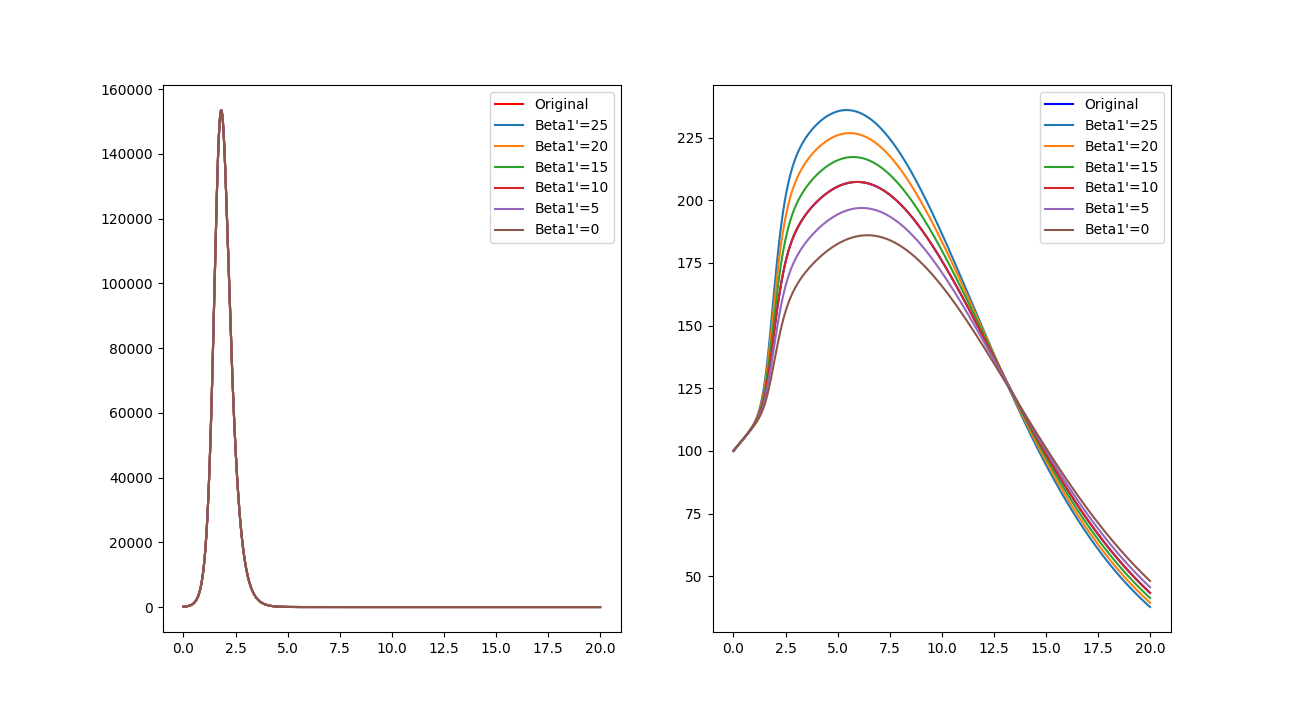
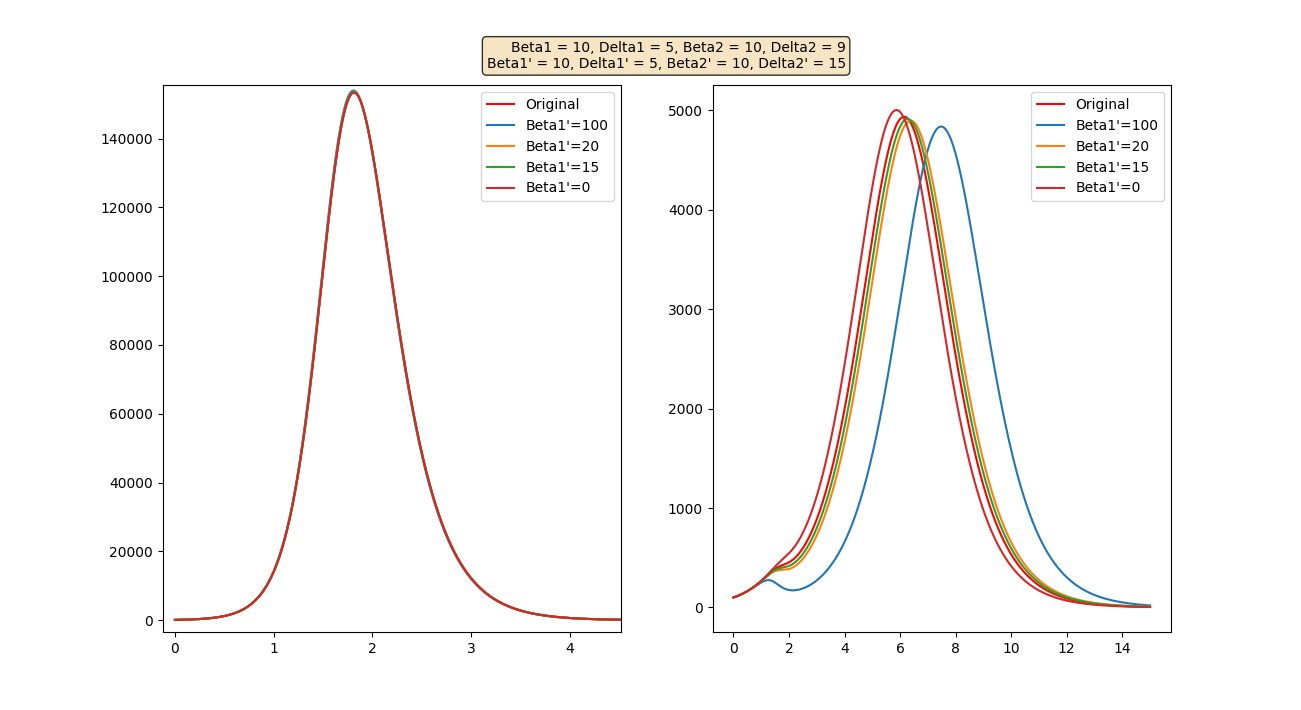
Plot graphs

diff --git a/analysis.py b/analysis.py
@@ -103,7 +103,7 @@ class modelAnalysis:
         plt.figtext(0.65, 0.9, txt, ha="right", va="bottom", bbox=dict(boxstyle='round', facecolor='wheat', alpha=0.8))
         plt.show()
 
-    def plotChange(self, betaprime_arr=None, fixed=2):
+    def plotChange(self, betaprime_arr=None, fixed=2, peak=False):
         if betaprime_arr is None:
             if fixed == 1:
                 betaprime_arr = np.array([self.params[5]])
@@ -114,7 +114,11 @@ class modelAnalysis:
         siir = mdl.SIIR(self.SIIR0, self.params, self.t_sim)
         siir.runEvaluation()
         ax[0].plot(self.t_sim, siir.getDisease1()[0], '-r', label='Original')
-        ax[1].plot(self.t_sim, siir.getDisease2()[0], '-b', label='Original')
+        ax[1].plot(self.t_sim, siir.getDisease2()[0], '-r', label='Original')
+
+        if peak:
+            ax[0].plot(self.t_sim[siir.getDisease1()[1]], siir.getDisease1()[0][siir.getDisease1()[1]], '*k')
+            ax[1].plot(self.t_sim[siir.getDisease2()[1]], siir.getDisease2()[0][siir.getDisease2()[1]], '*k')
 
         params = self.params.copy()
         if fixed == 2:
@@ -173,20 +177,24 @@ def getAnalysis():
     SIIR0[0] = N - np.sum(SIIR0[1:8])
 
     t_start = 0
-    t_end = 20
+    t_end = 15
     n_int = 10000
 
     t_sim = np.linspace(t_start, t_end, n_int)
     #params = [10, 10, 5, 9.9, 10, 10, 3, 8]
     #params = [10, 10, 5, 10, 10, 10, 5, 5]
-    params = [5,5,5,5,0,0,0,0]
+    #params = [20, 10, 15, 9, 20, 10, 19.5, 9]
 
+    params = [10, 10, 5, 9, 10, 10, 5, 15] # Fixed delta primes
+    #params = [10, 8, 9.5, 7.9, 10, 8, 9.5, 2] # Change delta prime 1
+    #params = [5, 3, 2, 2, 5, 3, 1, 2] # Change delta prime 1
+    #params = [5, 3, 2, 2, 5, 3, 2, 1]  # Change delta prime 2
 
     siirSim_orig = modelAnalysis(SIIR0, params, t_sim)
     #siirSim_orig.plotChange2D(beta1prime_arr=np.arange(0, 40, 0.1), beta2prime_arr=np.arange(180, 250, 1))
-    siirSim_orig.plotChange(betaprime_arr=np.arange(0, 30, 5), fixed=1)
-    siirSim_orig.plotChange(betaprime_arr=np.arange(0, 30, 5), fixed=2)
-    siirSim_orig.plotChangeBoth(beta1prime_arr=np.array([5, 15]),beta2prime_arr=[5, 15])
+    siirSim_orig.plotChange(betaprime_arr=np.array([0, 15, 20, 100]), fixed=1)
+    siirSim_orig.plotChange(betaprime_arr=np.array([0, 15, 20, 100]), fixed=2)
+    #siirSim_orig.plotChangeBoth(beta1prime_arr=np.array([5, 15]),beta2prime_arr=[5, 15])
     #siirSim_orig.plotChange(betaprime_arr=[2, 10], fixed=2)
     #siirSim_orig.plotChange(betaprime_arr=[5, 20], fixed=1)
     #siirSim_orig.plotChange(beta1prime_arr=np.arange(0,20,0.2), beta2prime_arr=np.arange(0,20,0.1))
